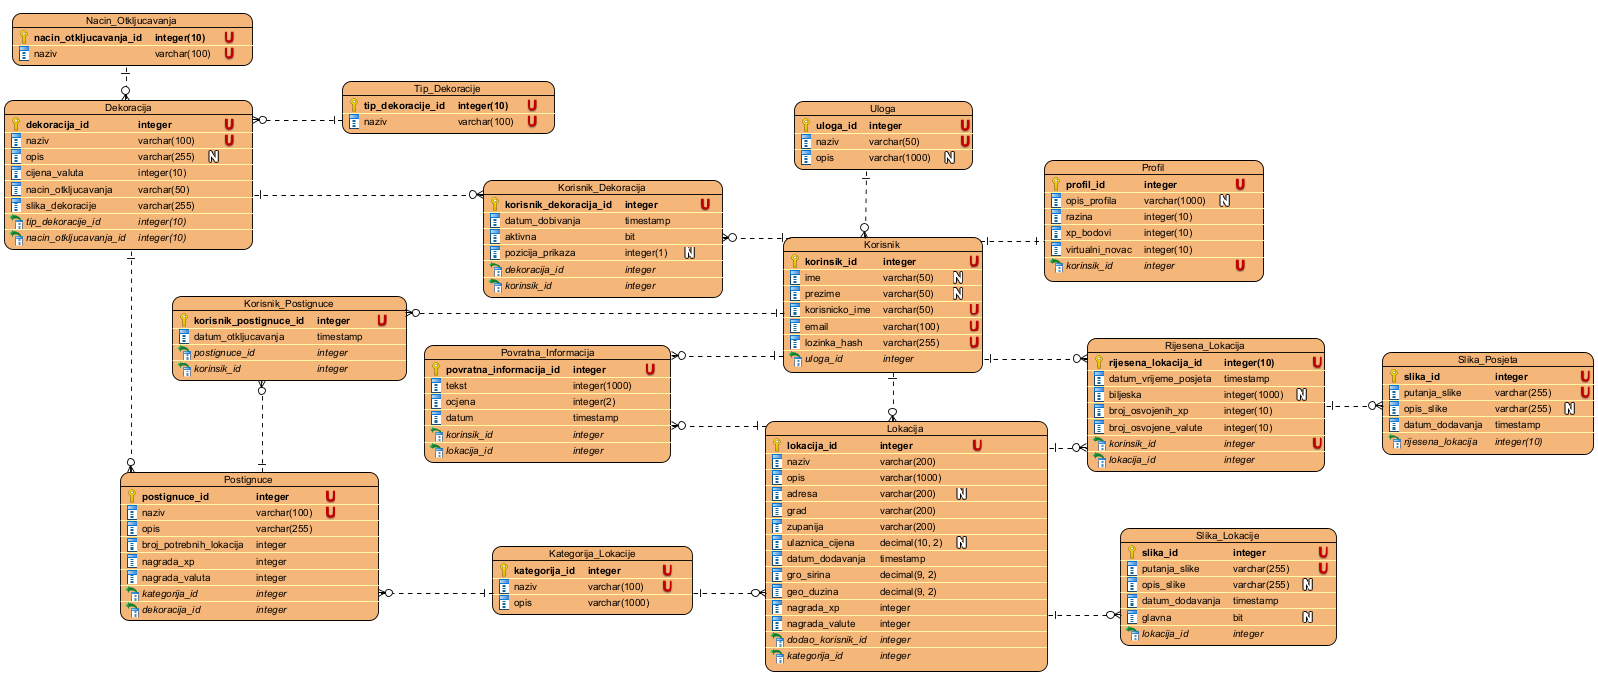
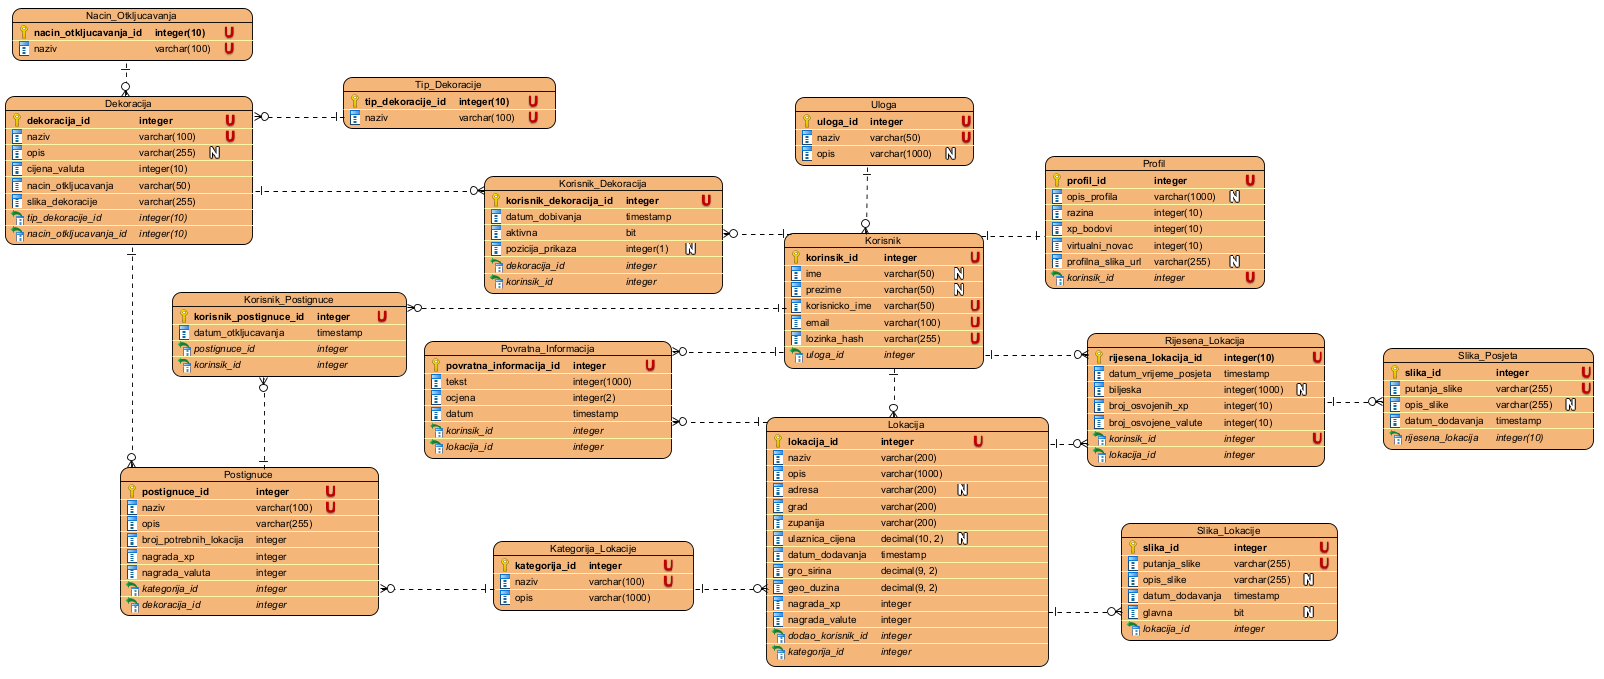
napravljane rute za /profil

diff --git a/backend/src/profil/profil.service.ts b/backend/src/profil/profil.service.ts
@@ -1,0 +1,141 @@
+import {
+  ConflictException,
+  Injectable,
+  NotFoundException,
+} from '@nestjs/common';
+import { PrismaService } from '../prisma/prisma.service';
+import { AzuriranjProfilDto } from './dto/azuriraj-profil.dto';
+import { Prisma } from 'generated/prisma/client';
+
+@Injectable()
+export class ProfilService {
+  constructor(private readonly prisma: PrismaService) {}
+
+  async dohvatiMoj(id: number) {
+    const profil = await this.prisma.profil.findUnique({
+      where: { korisnikId: id },
+      include: {
+        korisnik: {
+          select: {
+            korisnikId: true,
+            ime: true,
+            prezime: true,
+            korisnickoIme: true,
+            email: true,
+          },
+        },
+      },
+    });
+
+    if (!profil) {
+      throw new NotFoundException('Profil nije pronađen');
+    }
+
+    return profil;
+  }
+
+  async dohvatiJavniProfil(id: number) {
+    const profil = await this.prisma.profil.findUnique({
+      where: { korisnikId: id },
+      select: {
+        profilId: true,
+        opisProfila: true,
+        profilnaSlikaUrl: true,
+        razina: true,
+        xpBodovi: true,
+        korisnik: {
+          select: {
+            korisnikId: true,
+            ime: true,
+            prezime: true,
+            korisnickoIme: true,
+          },
+        },
+      },
+    });
+
+    if (!profil) {
+      throw new NotFoundException('Profil nije pronađen');
+    }
+
+    return profil;
+  }
+
+  async kreirajProfil(id: number) {
+    const korisnik = await this.prisma.korisnik.findUnique({
+      where: { korisnikId: id },
+    });
+
+    if (!korisnik) {
+      throw new NotFoundException('Korisnik nije pronađen');
+    }
+
+    try {
+      return this.prisma.profil.create({
+        data: {
+          korisnikId: id,
+        },
+      });
+    } catch (e) {
+      if (
+        e instanceof Prisma.PrismaClientKnownRequestError &&
+        e.code === 'P2002'
+      ) {
+        throw new ConflictException('Profil već postoji');
+      }
+
+      throw e;
+    }
+  }
+
+  async azurirajProfil(id: number, dto: AzuriranjProfilDto) {
+    const profil = await this.prisma.profil.findUnique({
+      where: { korisnikId: id },
+    });
+
+    if (!profil) {
+      throw new NotFoundException('Profil nije pronađen');
+    }
+
+    return await this.prisma.profil.update({
+      where: { korisnikId: id },
+      data: {
+        opisProfila: dto.opisProfila,
+      },
+    });
+  }
+
+  async azurirajProfilnuSliku(id: number, url: string) {
+    const profil = await this.prisma.profil.findUnique({
+      where: { korisnikId: id },
+    });
+
+    if (!profil) {
+      throw new NotFoundException('Profil nije pronađen');
+    }
+
+    return this.prisma.profil.update({
+      where: { korisnikId: id },
+      data: {
+        profilnaSlikaUrl: url,
+      },
+    });
+  }
+
+  async obrisiProfilnuSliku(id: number) {
+    const profil = await this.prisma.profil.findUnique({
+      where: { korisnikId: id },
+    });
+
+    if (!profil) {
+      throw new NotFoundException('Profil nije pronađen');
+    }
+
+    return this.prisma.profil.update({
+      where: { korisnikId: id },
+      data: {
+        profilnaSlikaUrl: null,
+      },
+    });
+  }
+}

diff --git a/backend/src/profil/profil.controller.ts b/backend/src/profil/profil.controller.ts
@@ -1,0 +1,54 @@
+import {
+  Body,
+  Controller,
+  Delete,
+  Get,
+  Param,
+  ParseIntPipe,
+  Patch,
+  Post,
+} from '@nestjs/common';
+import { ProfilService } from './profil.service';
+import { AzuriranjProfilDto } from './dto/azuriraj-profil.dto';
+import { AzuriranjProfilnuSlikuDto } from './dto/azuriraj-profilnu-sliku.dto';
+
+@Controller('profil')
+export class ProfilController {
+  constructor(private readonly profilService: ProfilService) {}
+
+  @Get(':id')
+  dohvati(@Param('id', ParseIntPipe) id: number) {
+    return this.profilService.dohvatiMoj(id);
+  }
+
+  @Post(':id')
+  kreirajProfil(@Param('id', ParseIntPipe) id: number) {
+    return this.profilService.kreirajProfil(id);
+  }
+
+  @Patch(':id')
+  azurirajProfil(
+    @Param('id', ParseIntPipe) id: number,
+    @Body() dto: AzuriranjProfilDto,
+  ) {
+    return this.profilService.azurirajProfil(id, dto);
+  }
+
+  @Patch(':id/slika')
+  azurirajProfilnuSliku(
+    @Param('id', ParseIntPipe) id: number,
+    @Body() dto: AzuriranjProfilnuSlikuDto,
+  ) {
+    return this.profilService.azurirajProfilnuSliku(id, dto.url);
+  }
+
+  @Delete(':id/slika')
+  obrisiProfilnuSliku(@Param('id', ParseIntPipe) id: number) {
+    return this.profilService.obrisiProfilnuSliku(id);
+  }
+
+  @Get('korisnik/:id')
+  dohvatiJavniProfil(@Param('id', ParseIntPipe) id: number) {
+    return this.profilService.dohvatiJavniProfil(id);
+  }
+}

diff --git a/backend/src/app.module.ts b/backend/src/app.module.ts
@@ -3,9 +3,10 @@ import { AppController } from './app.controller';
 import { AppService } from './app.service';
 import { PrismaModule } from './prisma/prisma.module';
 import { KorisniciModule } from './korisnici/korisnici.module';
+import { ProfilModule } from './profil/profil.module';
 
 @Module({
-  imports: [PrismaModule, KorisniciModule],
+  imports: [PrismaModule, KorisniciModule, ProfilModule],
   controllers: [AppController],
   providers: [AppService],
 })

diff --git a/backend/src/profil/profil.module.ts b/backend/src/profil/profil.module.ts
@@ -1,0 +1,9 @@
+import { Module } from '@nestjs/common';
+import { ProfilService } from './profil.service';
+import { ProfilController } from './profil.controller';
+
+@Module({
+  providers: [ProfilService],
+  controllers: [ProfilController]
+})
+export class ProfilModule {}

diff --git a/backend/src/profil/dto/azuriraj-profil.dto.ts b/backend/src/profil/dto/azuriraj-profil.dto.ts
@@ -1,0 +1,8 @@
+import { IsOptional, IsString, MaxLength } from 'class-validator';
+
+export class AzuriranjProfilDto {
+  @IsOptional()
+  @IsString()
+  @MaxLength(1000)
+  opisProfila?: string;
+}

diff --git a/backend/src/profil/dto/azuriraj-profilnu-sliku.dto.ts b/backend/src/profil/dto/azuriraj-profilnu-sliku.dto.ts
@@ -1,0 +1,7 @@
+import { IsString, MaxLength } from 'class-validator';
+
+export class AzuriranjProfilnuSlikuDto {
+  @IsString()
+  @MaxLength(255)
+  url!: string;
+}
